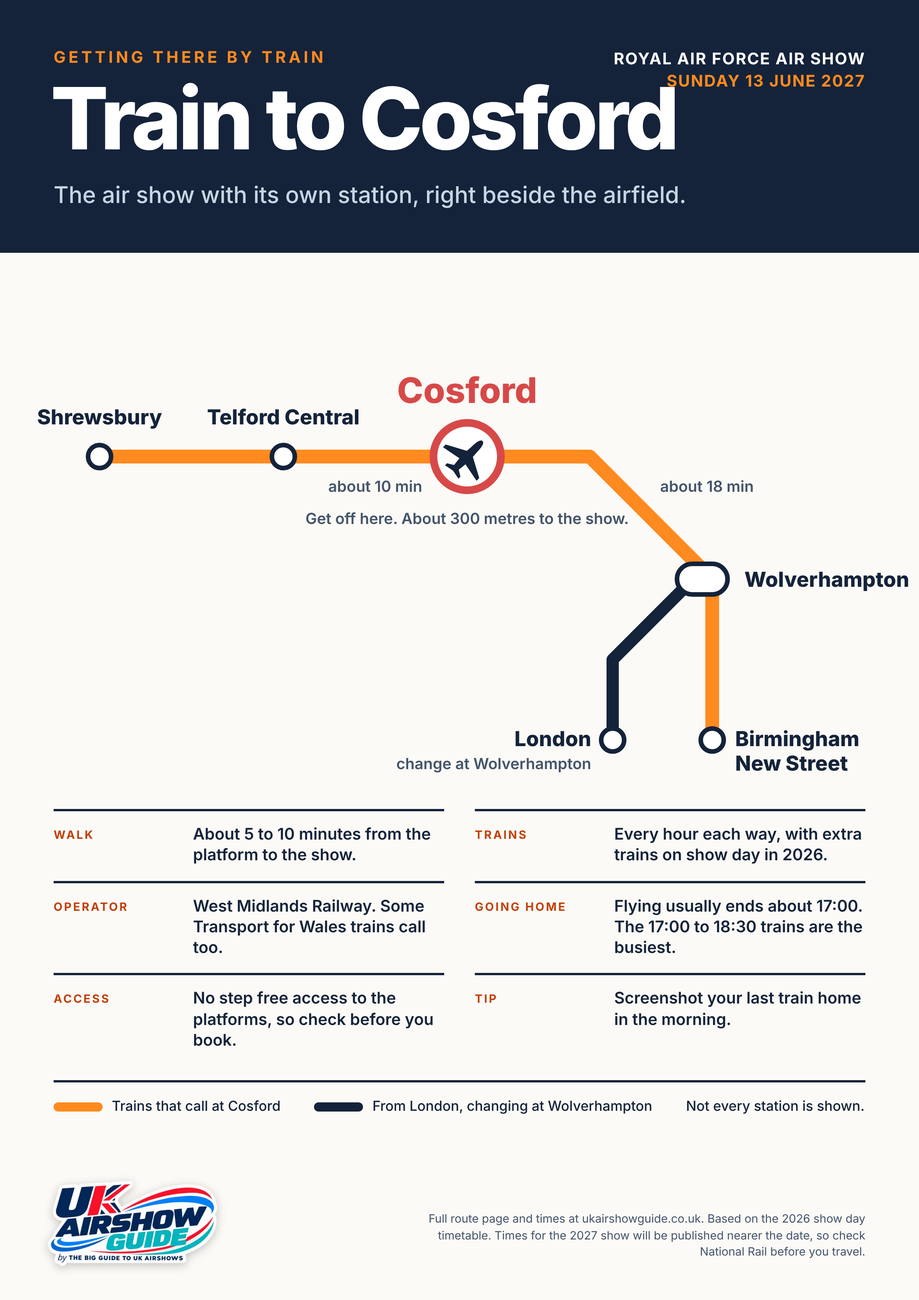
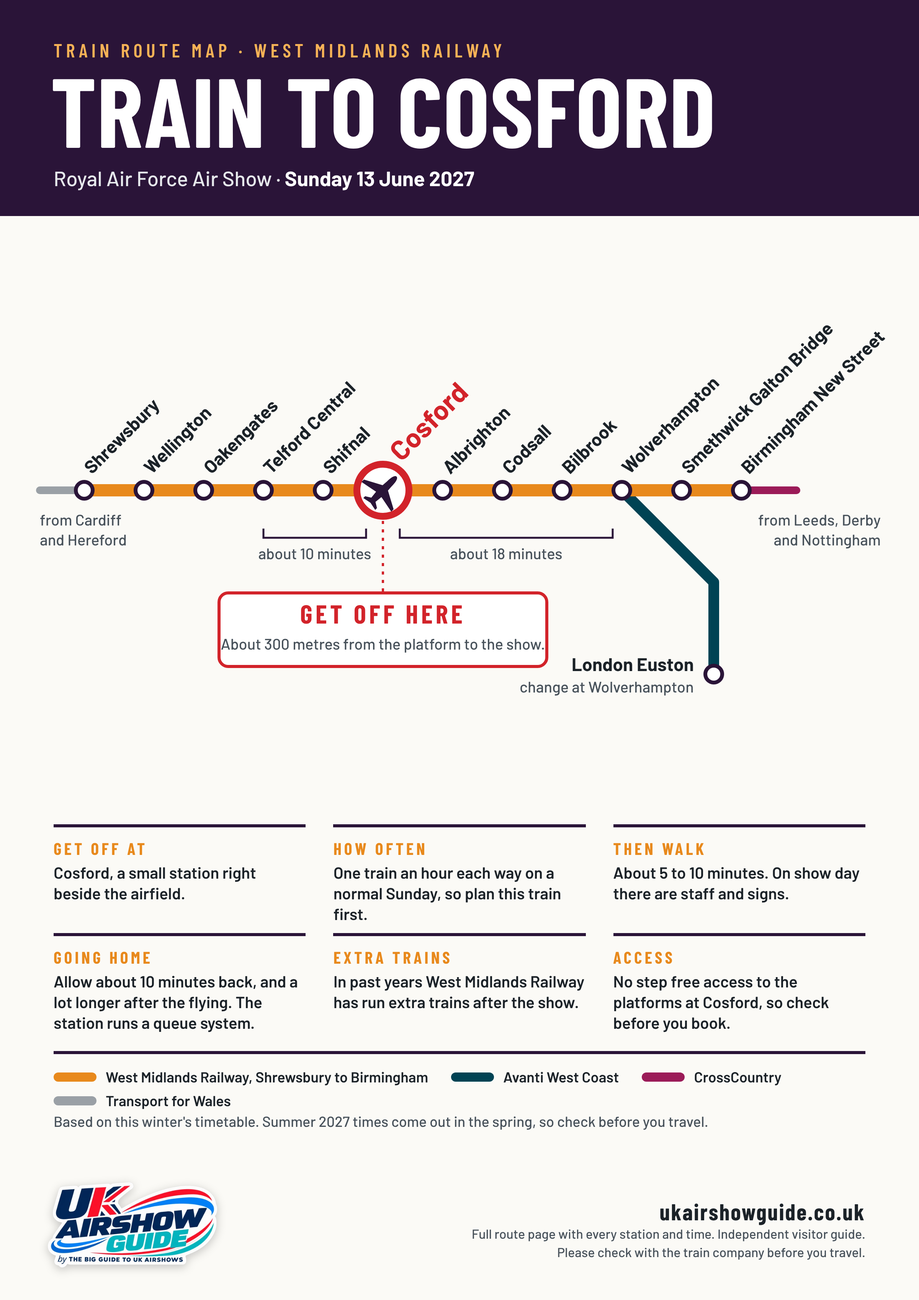
Posters: train route maps for Clacton, Cosford and Duxford, set in Barlow
Claude-Session: https://claude.ai/code/session_01CAsoXMemAtBndXNbXZbhzA

diff --git a/posters/06-train-to-cosford-map.html b/posters/06-train-to-cosford-map.html
@@ -1,62 +1,43 @@
 <!doctype html><html lang="en"><head><meta charset="utf-8"><title>Poster 6: Train to RAF Cosford, route map</title>
-<link rel="stylesheet" href="https://fonts.googleapis.com/css2?family=Inter:wght@400;500;600;700;800&display=swap">
-<link rel="stylesheet" href="poster.css">
-<style>
-.poster{background:#FBFAF6;color:#14233A;font-family:Inter,Arial,sans-serif}
-.band{position:absolute;left:0;right:0;top:0;height:330px;background:#14233A;color:#fff}
-.band .k{position:absolute;left:70px;top:62px;font-size:21px;font-weight:700;letter-spacing:.18em;text-transform:uppercase;color:#FF8A1F}
-.band h1{position:absolute;left:66px;top:98px;font-size:112px;font-weight:800;letter-spacing:-.04em;line-height:1}
-.band p{position:absolute;left:70px;top:236px;font-size:30px;font-weight:500;color:#C9D5E3}
-.band .d{position:absolute;right:70px;top:62px;text-align:right;font-size:21px;font-weight:700;letter-spacing:.06em;line-height:1.4}
-.facts{position:absolute;left:70px;right:70px;top:1056px;display:grid;grid-template-columns:1fr 1fr;gap:0 40px}
-.facts div{border-top:3px solid #14233A;padding:16px 0 20px;display:grid;grid-template-columns:168px 1fr;gap:14px}
-.facts span{font-size:15px;font-weight:700;letter-spacing:.14em;text-transform:uppercase;color:#C2410C;padding-top:5px}
-.facts p{font-size:21px;line-height:1.3;font-weight:600}
-.key{position:absolute;left:70px;right:70px;top:1410px;display:flex;gap:44px;font-size:18px;font-weight:500;align-items:center;border-top:3px solid #14233A;padding-top:20px}
-.key i{display:inline-block;width:64px;height:12px;border-radius:6px;vertical-align:middle;margin-right:12px}
-.foot{position:absolute;left:70px;right:70px;bottom:52px;display:flex;justify-content:space-between;align-items:flex-end}
-.foot small{font-size:15px;line-height:1.45;max-width:600px;text-align:right;color:#44546A}
-</style></head><body>
-<div class="poster">
-  <div class="band"><div class="k">Getting there by train</div><h1>Train to Cosford</h1><p>The air show with its own station, right beside the airfield.</p>
-  <div class="d">ROYAL AIR FORCE AIR SHOW<br><span style="color:#FF8A1F">SUNDAY 13 JUNE 2027</span></div></div>
-  <svg class="art" viewBox="0 0 1200 1697" fill="none"><g transform="translate(0 36)">
-    <!-- London line -->
-    <path d="M905 720 L800 825 V930" stroke="#14233A" stroke-width="16" stroke-linecap="round" stroke-linejoin="round"/>
-    <!-- main line -->
-    <path d="M130 560 H770 L930 720 V930" stroke="#FF8A1F" stroke-width="18" stroke-linecap="round" stroke-linejoin="round"/>
-    <g fill="#fff" stroke="#14233A" stroke-width="6">
-      <circle cx="130" cy="560" r="15"/><circle cx="370" cy="560" r="15"/><circle cx="930" cy="930" r="15"/><circle cx="800" cy="930" r="15"/>
-      <rect x="884" y="700" width="66" height="40" rx="20"/>
-    </g>
-    <!-- Cosford interchange -->
-    <circle cx="610" cy="560" r="44" fill="#fff" stroke="#D74949" stroke-width="10"/>
-    <g transform="translate(610 560) rotate(45) scale(.62)" fill="#14233A"><path d="M0 -46 C6 -46 8 -34 8 -22 L9 -8 L50 14 L50 22 L9 14 L7 32 L20 40 L20 46 L0 42 L-20 46 L-20 40 L-7 32 L-9 14 L-50 22 L-50 14 L-9 -8 L-8 -22 C-8 -34 -6 -46 0 -46Z"/></g>
-    <g font-family="Inter" font-weight="800" fill="#14233A">
-      <text x="130" y="518" font-size="27" text-anchor="middle">Shrewsbury</text>
-      <text x="370" y="518" font-size="27" text-anchor="middle">Telford Central</text>
-      <text x="610" y="490" font-size="46" text-anchor="middle" fill="#D74949">Cosford</text>
-      <text x="972" y="730" font-size="27">Wolverhampton</text>
-      <text x="960" y="938" font-size="27">Birmingham</text><text x="960" y="970" font-size="27">New Street</text>
-      <text x="772" y="938" font-size="27" text-anchor="end">London</text>
-    </g>
-    <g font-family="Inter" font-weight="600" font-size="20" fill="#44546A">
-      <text x="610" y="648" text-anchor="middle">Get off here. About 300 metres to the show.</text>
-      <text x="490" y="606" text-anchor="middle">about 10 min</text>
-      <text x="772" y="968" text-anchor="end">change at Wolverhampton</text>
-    </g>
-    <g font-family="Inter" font-weight="600" font-size="20" fill="#44546A"><text x="862" y="606">about 18 min</text></g>
-    
-  </g></svg>
-  <div class="facts">
-    <div><span>Walk</span><p>About 5 to 10 minutes from the platform to the show.</p></div>
-    <div><span>Trains</span><p>Every hour each way, with extra trains on show day in 2026.</p></div>
-    <div><span>Operator</span><p>West Midlands Railway. Some Transport for Wales trains call too.</p></div>
-    <div><span>Going home</span><p>Flying usually ends about 17:00. The 17:00 to 18:30 trains are the busiest.</p></div>
-    <div><span>Access</span><p>No step free access to the platforms, so check before you book.</p></div>
-    <div><span>Tip</span><p>Screenshot your last train home in the morning.</p></div>
-  </div>
-  <div class="key"><span><i style="background:#FF8A1F"></i>Trains that call at Cosford</span><span><i style="background:#14233A"></i>From London, changing at Wolverhampton</span><span>Not every station is shown.</span></div>
+<link rel="stylesheet" href="https://fonts.googleapis.com/css2?family=Barlow:wght@400;500;600;700&family=Barlow+Condensed:wght@500;600;700&display=swap">
+<link rel="stylesheet" href="poster.css"><link rel="stylesheet" href="trainmap.css">
+<style>.poster{--ui:#2A1438;--acc:#E8891C;--onui:#F6B256}</style></head><body>
+<div class="poster tm">
+  <div class="band"><div class="k">Train route map · West Midlands Railway</div><h1>Train to Cosford</h1><p>Royal Air Force Air Show · <b>Sunday 13 June 2027</b></p></div>
+  <svg class="art" viewBox="0 0 1200 1697" fill="none">
+<path d="M110 640 H52" stroke="#9AA0A6" stroke-width="10" stroke-linecap="round"/><path d="M968 640 H1040" stroke="#9B1B58" stroke-width="10" stroke-linecap="round"/>
+<path d="M812 640 L932 760 V880" stroke="#004354" stroke-width="14" stroke-linecap="round" stroke-linejoin="round"/>
+<path d="M110 640 H968" stroke="#E8891C" stroke-width="16" stroke-linecap="round"/>
+<circle class="st" cx="110" cy="640" r="11" fill="#fff" stroke="#2A1438" stroke-width="5"/><text class="l  r" transform="translate(120 620) rotate(-45)">Shrewsbury</text>
+<circle class="st" cx="188" cy="640" r="11" fill="#fff" stroke="#2A1438" stroke-width="5"/><text class="l  r" transform="translate(198 620) rotate(-45)">Wellington</text>
+<circle class="st" cx="266" cy="640" r="11" fill="#fff" stroke="#2A1438" stroke-width="5"/><text class="l  r" transform="translate(276 620) rotate(-45)">Oakengates</text>
+<circle class="st" cx="344" cy="640" r="11" fill="#fff" stroke="#2A1438" stroke-width="5"/><text class="l  r" transform="translate(354 620) rotate(-45)">Telford Central</text>
+<circle class="st" cx="422" cy="640" r="11" fill="#fff" stroke="#2A1438" stroke-width="5"/><text class="l  r" transform="translate(432 620) rotate(-45)">Shifnal</text>
+<circle class="st" cx="500" cy="640" r="34" fill="#fff" stroke="#D2232A" stroke-width="9"/><g transform="translate(500 640) rotate(45) scale(0.548)" fill="#2A1438"><path d="M0 -46 C6 -46 8 -34 8 -22 L9 -8 L50 14 L50 22 L9 14 L7 32 L20 40 L20 46 L0 42 L-20 46 L-20 40 L-7 32 L-9 14 L-50 22 L-50 14 L-9 -8 L-8 -22 C-8 -34 -6 -46 0 -46Z"/></g>
+<text class="bigr r" transform="translate(524 604) rotate(-45)">Cosford</text>
+<circle class="st" cx="578" cy="640" r="11" fill="#fff" stroke="#2A1438" stroke-width="5"/><text class="l  r" transform="translate(588 620) rotate(-45)">Albrighton</text>
+<circle class="st" cx="656" cy="640" r="11" fill="#fff" stroke="#2A1438" stroke-width="5"/><text class="l  r" transform="translate(666 620) rotate(-45)">Codsall</text>
+<circle class="st" cx="734" cy="640" r="11" fill="#fff" stroke="#2A1438" stroke-width="5"/><text class="l  r" transform="translate(744 620) rotate(-45)">Bilbrook</text>
+<circle class="st" cx="812" cy="640" r="11" fill="#fff" stroke="#2A1438" stroke-width="5"/><text class="l  r" transform="translate(822 620) rotate(-45)">Wolverhampton</text>
+<circle class="st" cx="890" cy="640" r="11" fill="#fff" stroke="#2A1438" stroke-width="5"/><text class="l  r" transform="translate(900 620) rotate(-45)">Smethwick Galton Bridge</text>
+<circle class="st" cx="968" cy="640" r="11" fill="#fff" stroke="#2A1438" stroke-width="5"/><text class="l  r" transform="translate(978 620) rotate(-45)">Birmingham New Street</text>
+<circle class="st" cx="932" cy="880" r="11" fill="#fff" stroke="#2A1438" stroke-width="5"/>
+<text class="l" x="906" y="876" text-anchor="end">London Euston</text>
+<text class="s" x="906" y="904" text-anchor="end">change at Wolverhampton</text>
+<g stroke="#2A1438" stroke-width="2.5"><path d="M344 690 V702 H478 V690"/><path d="M522 690 V702 H800 V690"/></g>
+<text class="s" x="411" y="730" text-anchor="middle">about 10 minutes</text>
+<text class="s" x="661" y="730" text-anchor="middle">about 18 minutes</text>
+<path d="M500 680 V772" stroke="#D2232A" stroke-width="3" stroke-dasharray="4 7"/><rect x="286" y="774" width="428" height="96" rx="12" fill="#fff" stroke="#D2232A" stroke-width="4"/>
+<text class="go" x="500" y="814" text-anchor="middle">GET OFF HERE</text>
+<text class="s" x="500" y="848" text-anchor="middle">About 300 metres from the platform to the show.</text>
+<text class="s" x="52" y="686" text-anchor="start">from Cardiff</text>
+<text class="s" x="52" y="712" text-anchor="start">and Hereford</text>
+<text class="s" x="1150" y="686" text-anchor="end">from Leeds, Derby</text>
+<text class="s" x="1150" y="712" text-anchor="end">and Nottingham</text>
+  </svg>
+  <div class="facts"><div><span>Get off at</span><p>Cosford, a small station right beside the airfield.</p></div><div><span>How often</span><p>One train an hour each way on a normal Sunday, so plan this train first.</p></div><div><span>Then walk</span><p>About 5 to 10 minutes. On show day there are staff and signs.</p></div><div><span>Going home</span><p>Allow about 10 minutes back, and a lot longer after the flying. The station runs a queue system.</p></div><div><span>Extra trains</span><p>In past years West Midlands Railway has run extra trains after the show.</p></div><div><span>Access</span><p>No step free access to the platforms at Cosford, so check before you book.</p></div></div>
+  <div class="key"><span><i style="background:#E8891C"></i>West Midlands Railway, Shrewsbury to Birmingham</span><span><i style="background:#004354"></i>Avanti West Coast</span><span><i style="background:#9B1B58"></i>CrossCountry</span><span><i style="background:#9AA0A6"></i>Transport for Wales</span></div>
+  <div class="note">Based on this winter's timetable. Summer 2027 times come out in the spring, so check before you travel.</div>
   <div class="foot"><span class="logo"><img src="logo.png" alt="UK Airshow Guide"></span>
-  <small>Full route page and times at ukairshowguide.co.uk. Based on the 2026 show day timetable. Times for the 2027 show will be published nearer the date, so check National Rail before you travel.</small></div>
+  <small><b>ukairshowguide.co.uk</b>Full route page with every station and time. Independent visitor guide. Please check with the train company before you travel.</small></div>
 </div></body></html>

diff --git a/posters/12-train-to-duxford-map.html b/posters/12-train-to-duxford-map.html
@@ -1,0 +1,48 @@
+<!doctype html><html lang="en"><head><meta charset="utf-8"><title>Poster 12: Train to Duxford, route map</title>
+<link rel="stylesheet" href="https://fonts.googleapis.com/css2?family=Barlow:wght@400;500;600;700&family=Barlow+Condensed:wght@500;600;700&display=swap">
+<link rel="stylesheet" href="poster.css"><link rel="stylesheet" href="trainmap.css">
+<style>.poster{--ui:#2E3236;--acc:#D2232A;--onui:#FF8C92}</style></head><body>
+<div class="poster tm">
+  <div class="band"><div class="k">Train route map · Cambridge and the free shuttle</div><h1>Train to Duxford</h1><p>Summer Air Show <b>19 and 20 June</b> · Battle of Britain Air Show <b>11 and 12 September 2027</b></p></div>
+  <svg class="art" viewBox="0 0 1200 1697" fill="none">
+<path d="M170 440 H592 V540" stroke="#9B1B58" stroke-width="12" stroke-linecap="round" stroke-linejoin="round"/>
+<path d="M920 440 H608 V540" stroke="#D2232A" stroke-width="12" stroke-linecap="round" stroke-linejoin="round"/>
+<path d="M600 540 H1000" stroke="#D2232A" stroke-width="14" stroke-linecap="round"/>
+<path d="M800 828 H884" stroke="#D2232A" stroke-width="10" stroke-linecap="round"/>
+<path d="M600 540 L800 740 V990" stroke="#D2232A" stroke-width="16" stroke-linecap="round" stroke-linejoin="round"/>
+<path d="M600 540 L400 740 V990" stroke="#253982" stroke-width="16" stroke-linecap="round" stroke-linejoin="round"/>
+<path d="M600 584 V694" stroke="#0E8F8A" stroke-width="8" stroke-dasharray="4 14" stroke-linecap="round"/>
+<g transform="translate(600 640)"><rect x="-24" y="-17" width="48" height="34" rx="7" fill="#0E8F8A" stroke="#fff" stroke-width="4"/><rect x="-16" y="-10" width="32" height="12" rx="2" fill="#fff"/><circle cx="-12" cy="9" r="3.5" fill="#fff"/><circle cx="12" cy="9" r="3.5" fill="#fff"/></g>
+<circle class="st" cx="450" cy="440" r="11" fill="#fff" stroke="#2E3236" stroke-width="5"/><text class="l" x="450" y="412" text-anchor="middle">Peterborough</text>
+<circle class="st" cx="310" cy="440" r="11" fill="#fff" stroke="#2E3236" stroke-width="5"/><text class="l" x="310" y="412" text-anchor="middle">Leicester</text>
+<circle class="st" cx="760" cy="440" r="11" fill="#fff" stroke="#2E3236" stroke-width="5"/><text class="l" x="760" y="412" text-anchor="middle">Thetford</text>
+<circle class="st" cx="920" cy="440" r="11" fill="#fff" stroke="#2E3236" stroke-width="5"/><text class="l" x="920" y="412" text-anchor="middle">Norwich</text>
+<circle class="st" cx="170" cy="440" r="11" fill="#fff" stroke="#2E3236" stroke-width="5"/><text class="l" x="170" y="386" text-anchor="middle">Birmingham</text><text class="l" x="170" y="412" text-anchor="middle">New Street</text>
+<rect class="st" x="578" y="429" width="44" height="22" rx="11" fill="#fff" stroke="#2E3236" stroke-width="5"/><text class="l" x="600" y="412" text-anchor="middle">Ely</text>
+<circle class="st" cx="800" cy="540" r="11" fill="#fff" stroke="#2E3236" stroke-width="5"/><text class="l" x="800" y="512" text-anchor="middle">Bury St Edmunds</text>
+<circle class="st" cx="1000" cy="540" r="11" fill="#fff" stroke="#2E3236" stroke-width="5"/><text class="l" x="1000" y="512" text-anchor="middle">Ipswich</text>
+<circle class="st" cx="740" cy="680" r="11" fill="#fff" stroke="#2E3236" stroke-width="5"/><text class="l" x="766" y="674" text-anchor="start">Whittlesford Parkway</text>
+<circle class="st" cx="800" cy="790" r="11" fill="#fff" stroke="#2E3236" stroke-width="5"/><text class="l" x="826" y="798" text-anchor="start">Audley End</text>
+<circle class="st" cx="800" cy="860" r="11" fill="#fff" stroke="#2E3236" stroke-width="5"/><text class="l" x="826" y="868" text-anchor="start">Bishops Stortford</text>
+<circle class="st" cx="800" cy="925" r="11" fill="#fff" stroke="#2E3236" stroke-width="5"/><text class="l" x="826" y="933" text-anchor="start">Tottenham Hale</text>
+<circle class="st" cx="800" cy="990" r="11" fill="#fff" stroke="#2E3236" stroke-width="5"/><text class="l" x="826" y="998" text-anchor="start">London Liverpool Street</text>
+<circle class="st" cx="884" cy="828" r="7" fill="#fff" stroke="#2E3236" stroke-width="4"/><text class="lm" x="902" y="835" text-anchor="start">Stansted Airport</text>
+<circle class="st" cx="500" cy="640" r="11" fill="#fff" stroke="#2E3236" stroke-width="5"/><text class="l" x="474" y="636" text-anchor="end">Royston</text>
+<circle class="st" cx="400" cy="790" r="11" fill="#fff" stroke="#2E3236" stroke-width="5"/><text class="l" x="374" y="798" text-anchor="end">Hitchin</text>
+<circle class="st" cx="400" cy="860" r="11" fill="#fff" stroke="#2E3236" stroke-width="5"/><text class="l" x="374" y="868" text-anchor="end">Stevenage</text>
+<circle class="st" cx="400" cy="925" r="11" fill="#fff" stroke="#2E3236" stroke-width="5"/><text class="l" x="374" y="933" text-anchor="end">Finsbury Park</text>
+<circle class="st" cx="400" cy="990" r="11" fill="#fff" stroke="#2E3236" stroke-width="5"/><text class="l" x="374" y="998" text-anchor="end">London Kings Cross</text>
+<circle class="st" cx="600" cy="540" r="34" fill="#fff" stroke="#2E3236" stroke-width="9"/><circle cx="600" cy="540" r="13" fill="#2E3236"/>
+<text class="big" x="546" y="530" text-anchor="end">Cambridge</text>
+<text class="s" x="546" y="562" text-anchor="end">Get off here for the free shuttle</text>
+<circle class="st" cx="600" cy="734" r="36" fill="#fff" stroke="#0E8F8A" stroke-width="9"/><g transform="translate(600 734) rotate(45) scale(0.581)" fill="#2E3236"><path d="M0 -46 C6 -46 8 -34 8 -22 L9 -8 L50 14 L50 22 L9 14 L7 32 L20 40 L20 46 L0 42 L-20 46 L-20 40 L-7 32 L-9 14 L-50 22 L-50 14 L-9 -8 L-8 -22 C-8 -34 -6 -46 0 -46Z"/></g>
+<text class="big" x="600" y="822" text-anchor="middle">IWM Duxford</text>
+<text class="s" x="600" y="852" text-anchor="middle">Free shuttle bus from stand 5</text>
+<text class="s" x="600" y="878" text-anchor="middle">About 30 minutes. No need to book.</text>
+  </svg>
+  <div class="facts"><div><span>Get off at</span><p>Cambridge. The free Air Show shuttle bus leaves from right outside.</p></div><div><span>How often</span><p>Several trains an hour from London, from about 50 minutes.</p></div><div><span>The shuttle</span><p>Stand 5 at the bus interchange on Station Place. About 30 minutes to IWM Duxford.</p></div><div><span>Going home</span><p>In 2026 the buses back ran every 30 minutes from 15:30, with the last at 18:30.</p></div><div><span>From further away</span><p>Greater Anglia from Norwich, Ipswich and Stansted Airport. CrossCountry from Birmingham.</p></div><div><span>Access</span><p>Step free to all platforms at Cambridge.</p></div></div>
+  <div class="key"><span><i style="background:#D2232A"></i>Greater Anglia</span><span><i style="background:#253982"></i>Great Northern and Thameslink</span><span><i style="background:#9B1B58"></i>CrossCountry</span><span><i style="background:repeating-linear-gradient(90deg,#0E8F8A 0 8px,transparent 8px 16px)"></i>Free Air Show shuttle bus</span></div>
+  <div class="note">Based on this winter's timetable. Summer 2027 times come out in the spring, so check before you travel.</div>
+  <div class="foot"><span class="logo"><img src="logo.png" alt="UK Airshow Guide"></span>
+  <small><b>ukairshowguide.co.uk</b>Full route page with every station and time. Independent visitor guide. Please check with the train company before you travel.</small></div>
+</div></body></html>

diff --git a/posters/11-train-to-clacton-map.html b/posters/11-train-to-clacton-map.html
@@ -1,0 +1,43 @@
+<!doctype html><html lang="en"><head><meta charset="utf-8"><title>Poster 11: Train to Clacton, route map</title>
+<link rel="stylesheet" href="https://fonts.googleapis.com/css2?family=Barlow:wght@400;500;600;700&family=Barlow+Condensed:wght@500;600;700&display=swap">
+<link rel="stylesheet" href="poster.css"><link rel="stylesheet" href="trainmap.css">
+<style>.poster{--ui:#2E3236;--acc:#D2232A;--onui:#FF8C92}</style></head><body>
+<div class="poster tm">
+  <div class="band"><div class="k">Train route map · Greater Anglia</div><h1>Train to Clacton</h1><p>Clacton Airshow · <b>Thursday 26 and Friday 27 August 2027</b></p></div>
+  <svg class="art" viewBox="0 0 1200 1697" fill="none">
+<path d="M740 640 H850" stroke="#9AA0A6" stroke-width="10" stroke-linecap="round"/><path d="M992 892 H1052" stroke="#9AA0A6" stroke-width="10" stroke-linecap="round"/>
+<path d="M100 640 H740 L1050 950" stroke="#D2232A" stroke-width="16" stroke-linecap="round" stroke-linejoin="round"/>
+<circle class="st" cx="100" cy="640" r="11" fill="#fff" stroke="#2E3236" stroke-width="5"/><text class="l  r" transform="translate(110 620) rotate(-45)">London Liverpool Street</text>
+<circle class="st" cx="164" cy="640" r="11" fill="#fff" stroke="#2E3236" stroke-width="5"/><text class="l  r" transform="translate(174 620) rotate(-45)">Stratford</text>
+<circle class="st" cx="228" cy="640" r="11" fill="#fff" stroke="#2E3236" stroke-width="5"/><text class="l  r" transform="translate(238 620) rotate(-45)">Shenfield</text>
+<circle class="st" cx="292" cy="640" r="7" fill="#fff" stroke="#2E3236" stroke-width="4"/><text class="lm  r" transform="translate(302 620) rotate(-45)">Ingatestone</text>
+<circle class="st" cx="356" cy="640" r="11" fill="#fff" stroke="#2E3236" stroke-width="5"/><text class="l  r" transform="translate(366 620) rotate(-45)">Chelmsford</text>
+<circle class="st" cx="420" cy="640" r="7" fill="#fff" stroke="#2E3236" stroke-width="4"/><text class="lm  r" transform="translate(430 620) rotate(-45)">Beaulieu Park</text>
+<circle class="st" cx="484" cy="640" r="7" fill="#fff" stroke="#2E3236" stroke-width="4"/><text class="lm  r" transform="translate(494 620) rotate(-45)">Hatfield Peverel</text>
+<circle class="st" cx="548" cy="640" r="11" fill="#fff" stroke="#2E3236" stroke-width="5"/><text class="l  r" transform="translate(558 620) rotate(-45)">Witham</text>
+<circle class="st" cx="612" cy="640" r="7" fill="#fff" stroke="#2E3236" stroke-width="4"/><text class="lm  r" transform="translate(622 620) rotate(-45)">Kelvedon</text>
+<circle class="st" cx="676" cy="640" r="7" fill="#fff" stroke="#2E3236" stroke-width="4"/><text class="lm  r" transform="translate(686 620) rotate(-45)">Marks Tey</text>
+<circle class="st" cx="740" cy="640" r="11" fill="#fff" stroke="#2E3236" stroke-width="5"/><text class="l  r" transform="translate(750 620) rotate(-45)">Colchester</text>
+<circle class="st" cx="782" cy="682" r="11" fill="#fff" stroke="#2E3236" stroke-width="5"/><text class="l" x="756" y="695" text-anchor="end">Hythe</text>
+<circle class="st" cx="824" cy="724" r="11" fill="#fff" stroke="#2E3236" stroke-width="5"/><text class="l" x="798" y="737" text-anchor="end">Wivenhoe</text>
+<circle class="st" cx="866" cy="766" r="7" fill="#fff" stroke="#2E3236" stroke-width="4"/><text class="lm" x="840" y="779" text-anchor="end">Alresford</text>
+<circle class="st" cx="908" cy="808" r="7" fill="#fff" stroke="#2E3236" stroke-width="4"/><text class="lm" x="882" y="821" text-anchor="end">Great Bentley</text>
+<circle class="st" cx="950" cy="850" r="7" fill="#fff" stroke="#2E3236" stroke-width="4"/><text class="lm" x="924" y="863" text-anchor="end">Weeley</text>
+<circle class="st" cx="992" cy="892" r="11" fill="#fff" stroke="#2E3236" stroke-width="5"/><text class="l" x="966" y="905" text-anchor="end">Thorpe-le-Soken</text>
+<circle class="st" cx="1050" cy="950" r="36" fill="#fff" stroke="#D2232A" stroke-width="9"/><g transform="translate(1050 950) rotate(45) scale(0.581)" fill="#2E3236"><path d="M0 -46 C6 -46 8 -34 8 -22 L9 -8 L50 14 L50 22 L9 14 L7 32 L20 40 L20 46 L0 42 L-20 46 L-20 40 L-7 32 L-9 14 L-50 22 L-50 14 L-9 -8 L-8 -22 C-8 -34 -6 -46 0 -46Z"/></g>
+<text class="big" x="996" y="966" text-anchor="end">Clacton-on-Sea</text>
+<text class="s" x="996" y="1000" text-anchor="end">Get off here, the end of the line. 10 to 15 minutes on foot.</text>
+<text class="s" x="866" y="647" text-anchor="start">to Ipswich and Norwich</text>
+<text class="s" x="1066" y="899" text-anchor="start">to Walton</text>
+<g stroke="#5DB3D6" stroke-width="5" stroke-linecap="round"><path d="M1104 936 q12 -10 24 0 t24 0"/><path d="M1104 958 q12 -10 24 0 t24 0"/><path d="M1104 980 q12 -10 24 0 t24 0"/></g>
+<text class="cap" x="100" y="752" text-anchor="start">FROM LONDON IN ABOUT</text>
+<text class="stat" x="96" y="820" text-anchor="start">1 hour 26 minutes</text>
+<text class="s" x="100" y="860" text-anchor="start">Direct from London Liverpool Street, every hour.</text>
+<text class="s" x="100" y="888" text-anchor="start">From other stations, change at Colchester or Shenfield.</text>
+  </svg>
+  <div class="facts"><div><span>Get off at</span><p>Clacton-on-Sea, right at the end of the Sunshine Coast line.</p></div><div><span>How often</span><p>Every hour from London, with extra trains usually added on airshow days.</p></div><div><span>Then walk</span><p>Down through the town centre to the seafront, then turn right for the West Greensward.</p></div><div><span>Going home</span><p>Allow about 15 minutes back to the station. Trains are very busy straight after the flying.</p></div><div><span>Last train</span><p>The last direct train to London leaves at 22:05 in the current timetable.</p></div><div><span>Access</span><p>Step free to all platforms at Clacton-on-Sea.</p></div></div>
+  <div class="key"><span><i style="background:#D2232A"></i>Greater Anglia to Clacton-on-Sea</span><span><i style="background:#9AA0A6"></i>Other lines</span><span><i style="background:#fff;border:4px solid #2E3236;width:18px;height:18px;border-radius:50%"></i>Smaller circles: some trains call</span></div>
+  <div class="note">Based on this winter's timetable. Summer 2027 times come out in the spring, so check before you travel.</div>
+  <div class="foot"><span class="logo"><img src="logo.png" alt="UK Airshow Guide"></span>
+  <small><b>ukairshowguide.co.uk</b>Full route page with every station and time. Independent visitor guide. Please check with the train company before you travel.</small></div>
+</div></body></html>

diff --git a/posters/trainmap.css b/posters/trainmap.css
@@ -1,0 +1,27 @@
+/* Train route map posters. Barlow and Barlow Condensed only. */
+.tm{background:#FBFAF6;color:#1B2228;font-family:Barlow,sans-serif}
+.tm .band{position:absolute;left:0;right:0;top:0;height:282px;background:var(--ui);color:#fff}
+.tm .band .k{position:absolute;left:70px;top:50px;font:600 25px 'Barlow Condensed',sans-serif;letter-spacing:.2em;text-transform:uppercase;color:var(--onui)}
+.tm .band h1{position:absolute;left:66px;top:78px;font:700 128px/1 'Barlow Condensed',sans-serif;text-transform:uppercase;letter-spacing:.005em;white-space:nowrap}
+.tm .band p{position:absolute;left:70px;top:216px;font:500 27px Barlow,sans-serif;color:#E6E9EC;white-space:nowrap}
+.tm .band p b{font-weight:700;color:#fff}
+.tm svg.art text{font-family:Barlow,sans-serif;fill:#1B2228}
+.tm svg.art .l{font-size:24px;font-weight:700}
+.tm svg.art .lm{font-size:21px;font-weight:500;fill:#48525B}
+.tm svg.art .s{font-size:20px;font-weight:500;fill:#48525B}
+.tm svg.art .big{font-size:44px;font-weight:700}
+.tm svg.art .bigr{font-size:36px;font-weight:700;fill:#D2232A}
+.tm svg.art .cap{font:600 24px 'Barlow Condensed',sans-serif;letter-spacing:.2em;fill:var(--acc)}
+.tm svg.art .stat{font:700 84px 'Barlow Condensed',sans-serif}
+.tm svg.art .go{font:700 34px 'Barlow Condensed',sans-serif;letter-spacing:.12em;fill:#D2232A}
+.tm .facts{position:absolute;left:70px;right:70px;top:1076px;display:grid;grid-template-columns:repeat(3,1fr);gap:0 36px}
+.tm .facts div{border-top:4px solid var(--ui);padding:14px 0 0;height:142px}
+.tm .facts span{display:block;font:700 22px 'Barlow Condensed',sans-serif;letter-spacing:.16em;text-transform:uppercase;color:var(--acc)}
+.tm .facts p{font-size:21px;line-height:1.28;font-weight:600;margin-top:6px}
+.tm .key{position:absolute;left:70px;right:70px;top:1372px;display:flex;flex-wrap:wrap;gap:8px 30px;font-size:19px;font-weight:600;align-items:center;border-top:4px solid var(--ui);padding-top:18px}
+.tm .key span{display:inline-flex;align-items:center;white-space:nowrap}
+.tm .key i{display:inline-block;width:56px;height:12px;border-radius:6px;margin-right:12px;flex:none}
+.tm .note{position:absolute;left:70px;right:70px;top:1452px;font-size:19px;font-weight:500;color:#48525B}
+.tm .foot{position:absolute;left:70px;right:70px;bottom:50px;display:flex;justify-content:space-between;align-items:flex-end}
+.tm .foot small{font-size:17px;line-height:1.4;max-width:560px;text-align:right;color:#48525B;font-weight:500}
+.tm .foot small b{display:block;font:700 30px 'Barlow Condensed',sans-serif;letter-spacing:.05em;color:#1B2228}

diff --git a/posters/index.html b/posters/index.html
@@ -16,14 +16,16 @@ a.card span{display:block;font-size:14px;color:#A8B7C2;margin-top:4px}
 a.card small{display:inline-block;margin-top:10px;font-size:13px;color:#A9E3E0}
 </style></head><body><main>
 <h1>Poster set</h1>
-<p class="lead">Ten posters in ten styles, made from the guide's own pages. Tap a poster for the full size image, or open the page version to print it at A3.</p>
+<p class="lead">Twelve posters, made from the guide's own pages. Tap a poster for the full size image, or open the page version to print it at A3.</p>
 <h2>Five mixed styles</h2><div class="grid" id="a"></div>
 <h2>Five ways to get there</h2><div class="grid" id="b"></div>
+<h2>More train route maps</h2><div class="grid" id="c"></div>
 </main><script>
 var P=[["01-season-at-a-glance","The 2027 season at a glance","Swiss typographic"],["02-first-airshow-blueprint","Your first airshow","Blueprint"],["03-riat-hud","RIAT is moving","Cockpit HUD"],["04-cosford-photo","RAF Cosford Air Show","Photo led"],["05-duxford-midcentury","Duxford 2027","Mid century cut paper"],
-["06-train-to-cosford-map","Train to Cosford","Rail route map"],["07-seaside-by-train-vintage","Take the train","Vintage railway poster"],["08-parking-road-signs","Parking on site","Road signs"],["09-check-before-you-travel-board","Check before you travel","Departure board"],["10-park-and-ride-bus","Park and ride","Bus stop bold"]];
+["06-train-to-cosford-map","Train to Cosford","Rail route map"],["07-seaside-by-train-vintage","Take the train","Vintage railway poster"],["08-parking-road-signs","Parking on site","Road signs"],["09-check-before-you-travel-board","Check before you travel","Departure board"],["10-park-and-ride-bus","Park and ride","Bus stop bold"],
+["11-train-to-clacton-map","Train to Clacton","Rail route map"],["12-train-to-duxford-map","Train to Duxford","Rail route map"]];
 P.forEach(function(p,i){var a=document.createElement("a");a.className="card";a.href="png/"+p[0]+".png";
 a.innerHTML='<img loading="lazy" src="png/'+p[0]+'.png" alt="'+p[1]+' poster, '+p[2]+' style"><div><b>'+p[1]+'</b><span>'+p[2]+'</span><small>Full size image</small></div>';
-document.getElementById(i<5?"a":"b").appendChild(a);
+document.getElementById(i<5?"a":i<10?"b":"c").appendChild(a);
 });
 </script></body></html>

diff --git a/README.md b/README.md
@@ -51,7 +51,7 @@ Since 30 Oct 2026 no page holds pasted code any more (only the old Template Page
 | Airshow Security and Bag Searches (planning guide, Wix page /airshow-security, photos in security-img/) | https://jskedge1.github.io/airshow-pages/airshow-security.html |
 | Nikon D500 3D Camera Guide (shown inside the Airshow Photography Hub since 30 Oct 2026: the full width "Nikon D500 3D camera guide" tile opens it in a frame on the hub's own page, `d500View()` in photography-hub.html; the page sends its height and its Back to the hub clicks to the hub with postMessage. No Wix page of its own, so links.js keeps it live:false). 3D camera built with three.js from jsDelivr, every control clickable with airshow settings, set up checklist and settings by aircraft | https://jskedge1.github.io/airshow-pages/nikon-d500.html |
 | 3D camera guides (19 Nov 2026): one page with a camera picker for eleven bodies (Canon 90D, R7, R5 Mark II; Nikon D500, D7500, Z6III, Z8; Sony A6700; Fujifilm X-H2S; OM System OM-1 Mark II; Panasonic G9 II). Plain unbranded 3D bodies built from each camera's size, every control placed where it sits on the real camera, with airshow advice, a ten step set up tour per camera and settings by aircraft. Opens inside the Airshow Photography Hub from the full width tile (replacing the D500 only guide there); #camera-id or ?camera=id picks a camera. Source data and engine in this repo's history; built as one file | https://jskedge1.github.io/airshow-pages/camera-guides.html |
-| Poster set (21 Nov 2026): ten A3 portrait posters in ten styles, five mixed and five on getting to air shows, each a page in posters/ with a full size image in posters/png/. Facts come from the calendar, the getting there guide and the Cosford train page, so update them when those change. Replace posters/logo.png to change the logo on all ten, then render the images again. No Wix page | https://jskedge1.github.io/airshow-pages/posters/index.html |
+| Poster set (21 Nov 2026): ten A3 portrait posters in ten styles, five mixed and five on getting to air shows, each a page in posters/ with a full size image in posters/png/. Facts come from the calendar, the getting there guide and the Cosford train page, so update them when those change. Replace posters/logo.png to change the logo on every poster, then render the images again. Train route maps for Cosford (06), Clacton (11) and Duxford (12) share posters/trainmap.css, are set in Barlow only, and take their stations and facts from train-routes-src/. No Wix page | https://jskedge1.github.io/airshow-pages/posters/index.html |
 | Planning guide 1, Which airshow suits you? (Wix page /first-airshow-which-show) | https://jskedge1.github.io/airshow-pages/first-airshow-which-show.html |
 | Planning guide 2, Getting there (Wix page /first-airshow-getting-there) | https://jskedge1.github.io/airshow-pages/first-airshow-getting-there.html |
 | Planning guide 4, Where to watch (Wix page /first-airshow-where-to-watch) | https://jskedge1.github.io/airshow-pages/first-airshow-where-to-watch.html |
